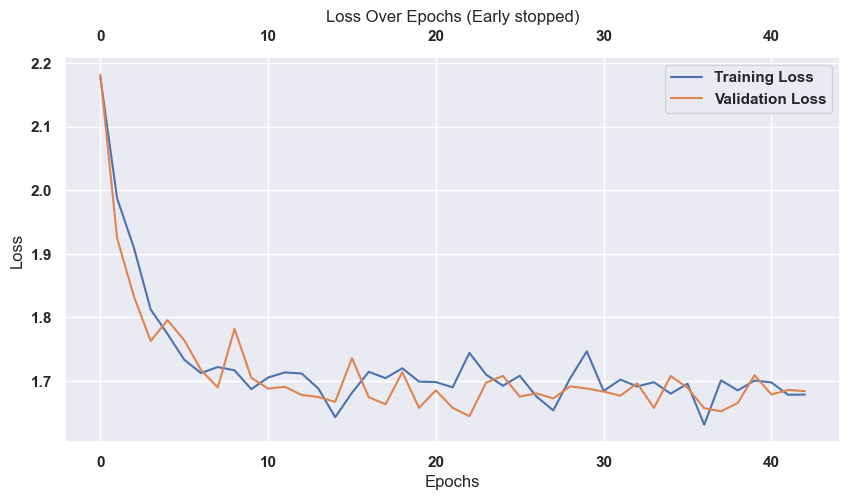
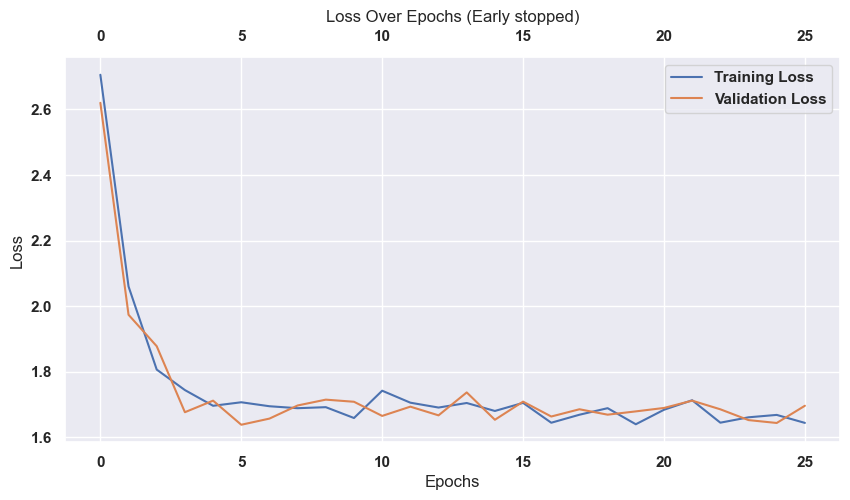
Minor code partioning

diff --git a/horzie.py b/horzie.py
@@ -4,65 +4,23 @@ import seaborn as sns
 import matplotlib.pyplot as plt
 from torch.utils.data import TensorDataset
 
-from helper_functions import conversion, standardize, NameHolder
-from helper_variables import place_match, sex_match
+from helper_variables import place_match
+from preprocessing import preprocess_data
 from nn_training import nnTraining
 
 results = pd.read_csv('./docs/races_2003_2025.csv')
 
 print(results.shape)
 
-results.drop(columns=[
-  'date',
-  'race_time',
-  'start_time',
-  'versenykiiras',
-  'race_name', 
-  'versenydij', 
-  'program_number', 
-  'color',
-  'time', 
-  'dam'], 
-  inplace=True)
+data = preprocess_data(results)
 
-# @TODO Try to fill the nullish values (race_time), instead of masking
-# print(results.isnull().sum()) # Should check nan as well
-
-results['race_of_the_day'] = results['race_of_the_day'].apply(conversion, args=(place_match,))
-results['place'] = results['place'].apply(conversion, args=(place_match,))
-results['place'] = results.loc[results['place'] > 0, ['place']]
-results = results[results['place'].notna()]
-results['sex'] = results['sex'].apply(conversion, args=(sex_match,))
-
-# results = results[results['race_time'].notna()]
-# results['race_time'] = pd.to_timedelta('00:' + results['race_time'].astype(str))
-# results['race_time'] = results['race_time'].dt.total_seconds()
-
-jocky_names = NameHolder(results['jockey'])
-horse_names = NameHolder(results['horse_name'])
-trainer_names = NameHolder(results['trainer'])
-stable_names = NameHolder(results['stable'])
-sire_names = NameHolder(results['sire'])
-
-results['jockey'] = results['jockey'].apply(conversion, args=(jocky_names.names,))
-results['horse_name'] = results['horse_name'].apply(conversion, args=(horse_names.names,))
-results['trainer'] = results['trainer'].apply(conversion, args=(trainer_names.names,))
-results['stable'] = results['stable'].apply(conversion, args=(stable_names.names,))
-results['sire'] = results['sire'].apply(conversion, args=(sire_names.names,))
-
-results[[
-  'distance', 'dividend', 'jockey', 'horse_name', 'trainer', 'stable', 'sire'
-  ]] = results[[
-    'distance', 'dividend', 'jockey', 'horse_name', 'trainer', 'stable', 'sire'
-    ]].apply(standardize)
-
-print(results.info())
+print(data.info())
 pd.set_option('display.max_colwidth', None)
-print(results.head())
+print(data.head())
 
 sns.set_theme(rc = {'figure.figsize':(20,20), 'font.weight': 'bold', 'font.size': 12, 'xtick.labelsize': 14, 'ytick.labelsize': 14, 'xtick.top': True, 'xtick.labeltop': True})
 sns.set_theme(context='notebook', style='darkgrid', palette='deep', font='sans-serif', font_scale=1, color_codes=True, rc=None)
-ax = sns.heatmap(results.corr(numeric_only=True).round(2), annot=True, cmap="coolwarm")
+ax = sns.heatmap(data.corr(numeric_only=True).round(2), annot=True, cmap="coolwarm")
 plt.savefig('./docs/corr.png', bbox_inches='tight')
 
 '''
@@ -73,10 +31,10 @@ I will use 3 datasets:
 In a ratio of 6-2-2
 '''
 
-X = results.drop(columns=['place']).to_numpy()
-Y = results['place'].to_numpy()
+X = data.drop(columns=['place']).to_numpy()
+Y = data['place'].to_numpy()
 
-print(results.shape, X.shape, Y.shape)
+print(data.shape, X.shape, Y.shape)
 
 x_tensor = torch.tensor(X, dtype=torch.float32)
 y_tensor = torch.tensor(Y, dtype=torch.long)

diff --git a/nn_training.py b/nn_training.py
@@ -12,10 +12,10 @@ from helper_functions import EarlyStopper
 def nnTraining(dataset, output_size):
   indices = np.arange(len(dataset))
   train_idx, rest_idx = train_test_split(indices, train_size=0.6, shuffle=True)
-  val_idx, test_idx   = train_test_split(rest_idx, train_size=0.5, shuffle=True)
+  val_idx, test_idx = train_test_split(rest_idx, train_size=0.5, shuffle=True)
 
   train_dataset = Subset(dataset, train_idx)
-  val_dataset   = Subset(dataset, val_idx)
+  val_dataset = Subset(dataset, val_idx)
   test_dataset  = Subset(dataset, test_idx)
 
   dataloader_train = DataLoader(train_dataset, batch_size=2000, shuffle=True)
@@ -39,28 +39,19 @@ def nnTraining(dataset, output_size):
   early_stopper = EarlyStopper(patience=patience, min_delta=0.001)
 
   for epoch in range(num_epochs):
-    for x_batch, y_batch in dataloader_train:
-      model.train()
-      optimizer.zero_grad()
-      outputs = model(x_batch)
-      loss = lossfn(outputs, y_batch)
-      loss.backward()
-      optimizer.step()
-
+    '''Training part'''
+    loss = do_training(model, lossfn, optimizer, dataloader_train)
     train_losses.append(loss.mean().item())
 
     '''Validation part'''
-    model.eval()
-    with torch.no_grad():
-      for x_batch, y_batch in dataloader_val:
-        val_outputs = model(x_batch)
-        val_loss = lossfn(val_outputs, y_batch)
-
+    val_loss = do_validation(model, lossfn, dataloader_val)
     val_losses.append(val_loss.mean().item())
 
     if epoch % 10 == 0:
         print(f"Epoch {epoch}/{num_epochs}, Train Loss: {loss.item()}, Val Loss: {val_loss.item()}")
     best_model_wts = model.state_dict()
+
+    print(val_loss.item())
 
     if early_stopper.early_stop(val_loss.item()):
       print(f"Early stopping at epoch {epoch}")
@@ -77,3 +68,23 @@ def nnTraining(dataset, output_size):
   plt.savefig('./docs/loss_latest.png', bbox_inches='tight')  
 
   best_model = model.load_state_dict(best_model_wts)
+
+def do_validation(model, lossfn, dataLoader):
+  model.eval()
+  with torch.no_grad():
+    for x_batch, y_batch in dataLoader:
+      val_outputs = model(x_batch)
+      val_loss = lossfn(val_outputs, y_batch)
+
+  return val_loss
+
+def do_training(model, lossfn, optimizer, dataloader):
+  for x_batch, y_batch in dataloader:
+    model.train()
+    optimizer.zero_grad()
+    outputs = model(x_batch)
+    loss = lossfn(outputs, y_batch)
+    loss.backward()
+    optimizer.step()
+
+  return loss

diff --git a/preprocessing.py b/preprocessing.py
@@ -1,0 +1,46 @@
+import pandas as pd
+from helper_functions import conversion, NameHolder, standardize
+from helper_variables import place_match, sex_match
+
+def preprocess_data(data) -> pd.DataFrame:
+  data.drop(columns=[
+  'date',
+  'race_time',
+  'start_time',
+  'versenykiiras',
+  'race_name', 
+  'versenydij', 
+  'program_number', 
+  'color',
+  'time', 
+  'dam'], 
+  inplace=True)
+
+  # @TODO Try to fill the nullish values (race_time), instead of masking
+  # print(results.isnull().sum()) # Should check nan as well
+
+  data['race_of_the_day'] = data['race_of_the_day'].apply(conversion, args=(place_match,))
+  data['place'] = data['place'].apply(conversion, args=(place_match,))
+  data['place'] = data.loc[data['place'] > 0, ['place']]
+  data = data[data['place'].notna()]
+  data['sex'] = data['sex'].apply(conversion, args=(sex_match,))
+
+  jocky_names = NameHolder(data['jockey'])
+  horse_names = NameHolder(data['horse_name'])
+  trainer_names = NameHolder(data['trainer'])
+  stable_names = NameHolder(data['stable'])
+  sire_names = NameHolder(data['sire'])
+
+  data['jockey'] = data['jockey'].apply(conversion, args=(jocky_names.names,))
+  data['horse_name'] = data['horse_name'].apply(conversion, args=(horse_names.names,))
+  data['trainer'] = data['trainer'].apply(conversion, args=(trainer_names.names,))
+  data['stable'] = data['stable'].apply(conversion, args=(stable_names.names,))
+  data['sire'] = data['sire'].apply(conversion, args=(sire_names.names,))
+
+  data[[
+    'distance', 'dividend', 'jockey', 'horse_name', 'trainer', 'stable', 'sire'
+    ]] = data[[
+      'distance', 'dividend', 'jockey', 'horse_name', 'trainer', 'stable', 'sire'
+      ]].apply(standardize)
+  
+  return data
